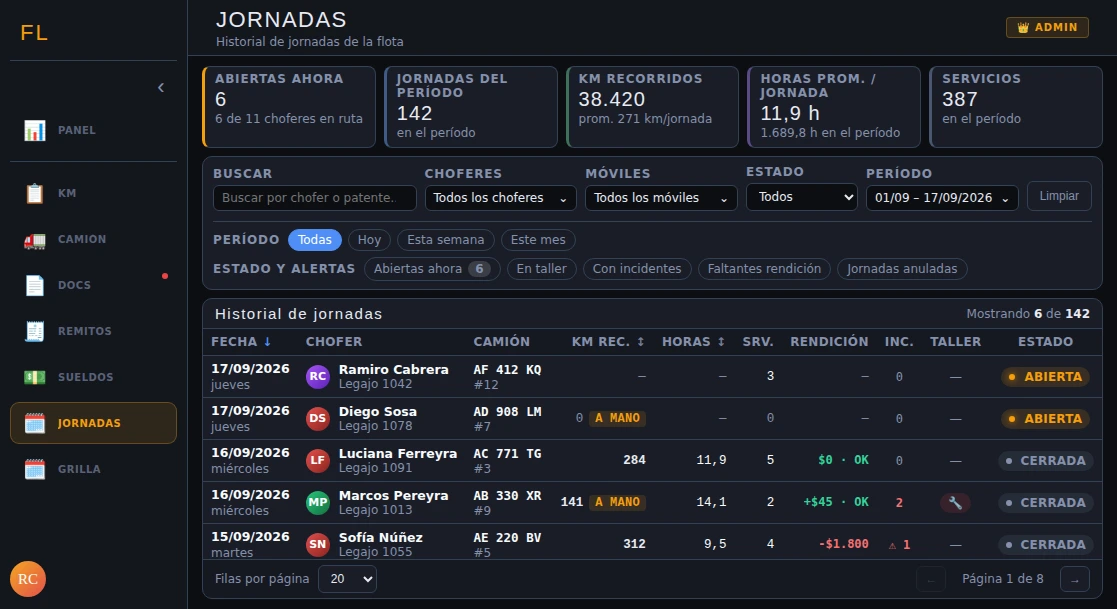
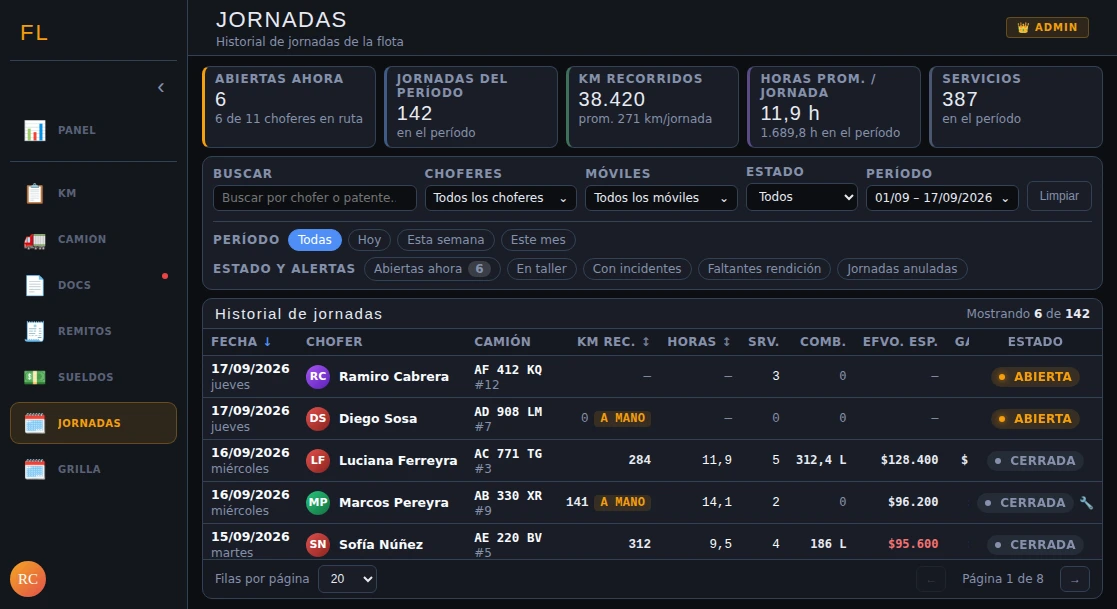
docs: regenerar capturas tras el cambio de columnas
Las capturas "después" mostraban la grilla con Rendición y Taller. Se
regeneran con el juego de columnas actual: Comb., Efvo. esp. y Gastos, el
🔧 dentro del pill de Estado, Estado anclada a la derecha y la celda del
chofer sin la línea del legajo.

Claude-Session: https://claude.ai/code/session_017jJMvAYp82fDWp8Bi4m4Jg

diff --git a/assets/ui-review/jornadas-admin-ui-polish/README.md b/assets/ui-review/jornadas-admin-ui-polish/README.md
@@ -34,6 +34,10 @@ harness y solo cambia el código.
 Los números de las capturas son de muestra: lo que hay que mirar es la
 jerarquía visual, el contraste y el layout, no los valores.
 
+Las capturas "después" están regeneradas tras el cambio de columnas
+(Rendición → Efvo. esp. + Gastos, Taller → marca en el pill de Estado,
++ Combustible, legajo al tooltip). Las "antes" siguen siendo la rama base.
+
 **Queda pendiente confirmar la pantalla en el preview de Vercel con datos
 reales**, sobre todo nombres de chofer largos y períodos que cruzan de año.
 
